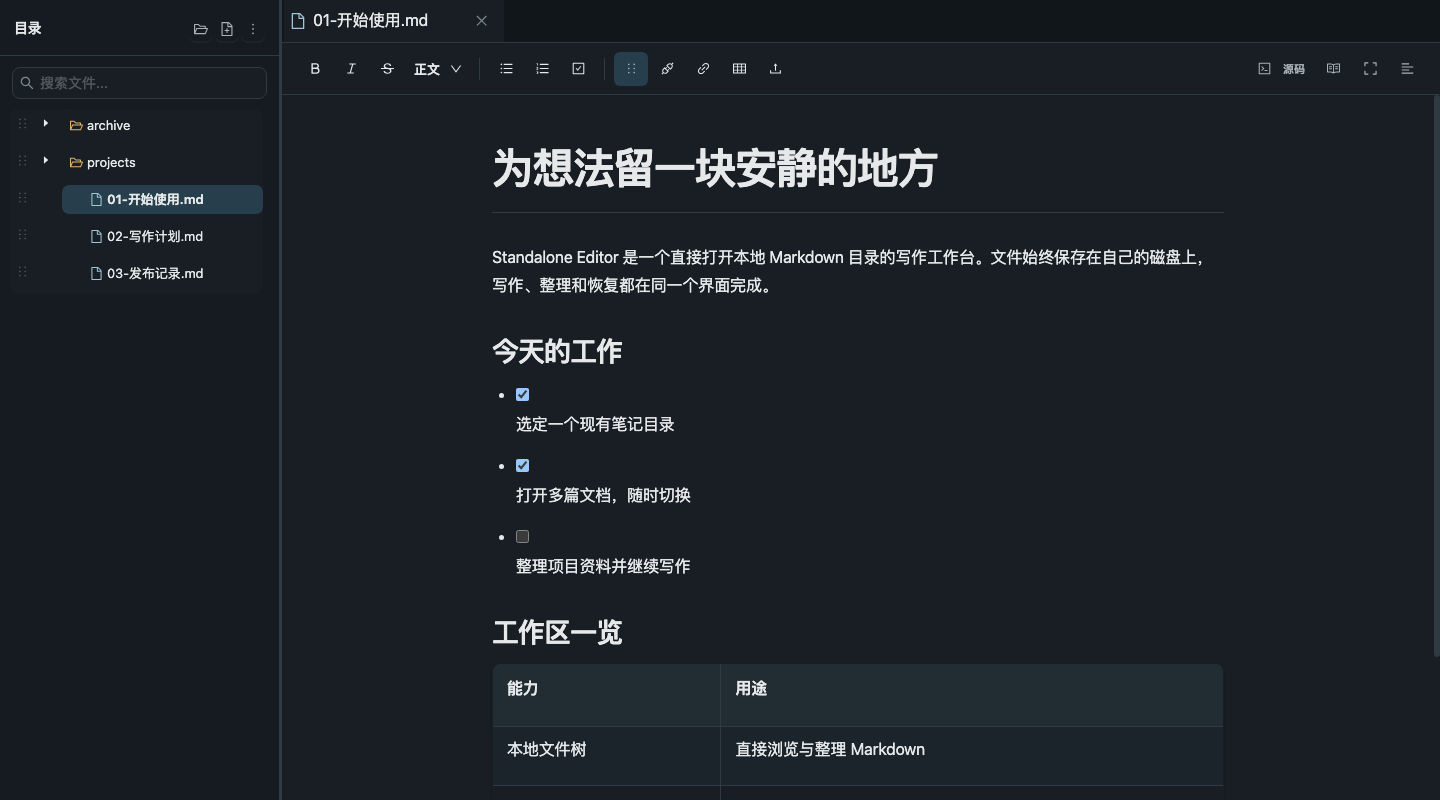
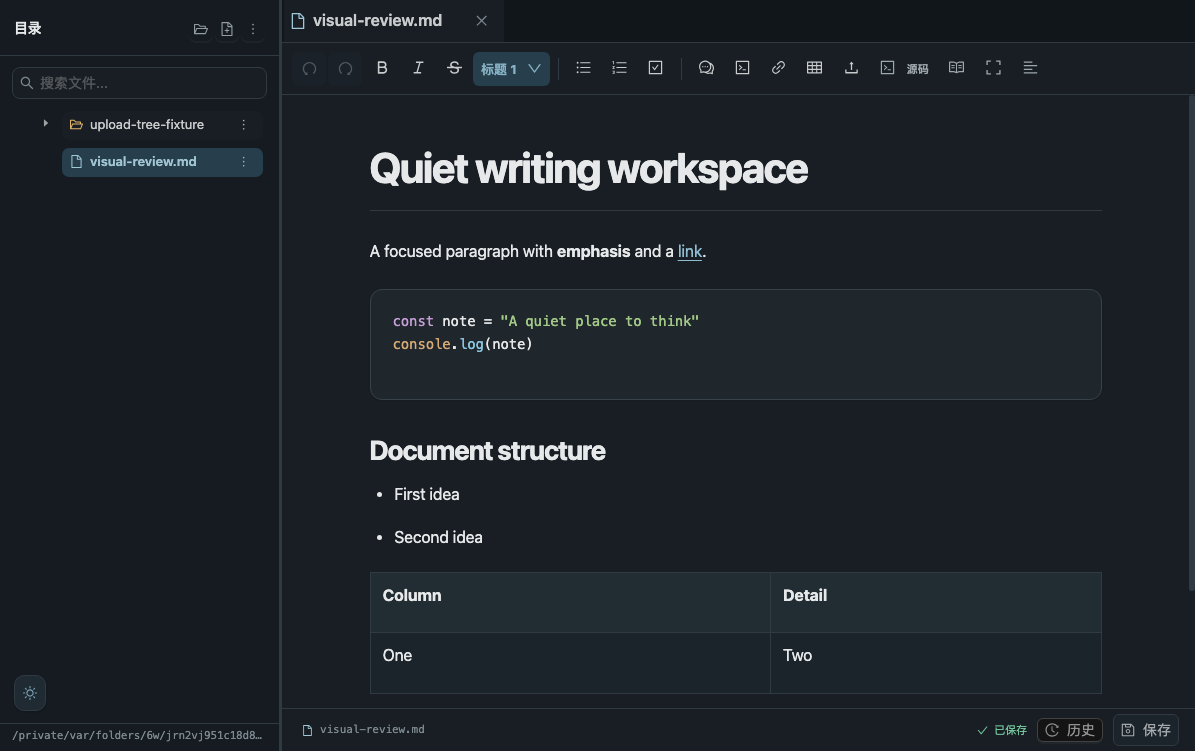
docs: present product workflows and production setup
Rewrite README with a professional overview, current screenshots, verified platform commands, editing workflows, recovery rules, and deployment boundaries. Synchronize recovery maintenance API and CI documentation.

diff --git a/README.md b/README.md
@@ -1,140 +1,196 @@
 # Standalone Editor
 
-**打开一个本地目录，安静地写 Markdown。**
+**以普通 Markdown 文件为基础的本地文档工作台。**
 
-Standalone Editor 是一款在浏览器中运行的本地文档工作台。它直接读写你选择的文件夹：左边整理文件，中间专注写作，保存状态和恢复入口始终可见。文档仍是普通的 `.md` 文件，不需要导入专有格式。
+Standalone Editor 提供浏览器中的 Markdown 编辑、目录管理与内容恢复能力，直接读写指定工作目录。它面向个人笔记、项目文档和本地知识库，支持富文本与源码编辑，保留文件目录结构和相对图片路径，无需将文档迁入专有格式或数据库。
 
 [![CI](https://github.com/nerkeler/standalone-editor/actions/workflows/ci.yml/badge.svg)](https://github.com/nerkeler/standalone-editor/actions/workflows/ci.yml)
 
-![Standalone Editor 浅色工作台：左侧文件树、中间 Markdown 文档与顶部编辑工具栏](docs/images/workbench-light.png)
+[安装运行](#安装运行) · [使用说明](#使用说明) · [部署与数据边界](#部署与数据边界) · [技术文档](#技术文档) · [开发与验证](#开发与验证)
 
-*真实界面截图，内容来自隔离的演示工作区。* [查看深色主题截图](docs/images/workbench-dark.png)
+![Standalone Editor 浅色工作台：文件目录、Markdown 正文与编辑工具栏](docs/images/workbench-light.png)
 
-## 一眼了解
+*当前界面的真实截图，使用隔离的演示工作区。*
 
-| 写作 | 整理 | 找回 |
-| --- | --- | --- |
-| 富文本与源码两种模式、撤销与重做、多标签、任务列表、基础表格 | 本地文件树、搜索、新建、重命名、移动、ZIP 导入 | 三秒自动保存、保存冲突提示、版本历史、回收站与浏览器草稿 |
+## 核心能力
 
-项目面向**个人、本机、已有 Markdown 目录**的使用场景。图片可以使用相对于文档的路径；编辑器只在显示时把它映射为本地媒体地址，磁盘上的 Markdown 不依赖应用的 API URL。
-
-## 快速开始
-
-建议使用 Node.js 22.x 的 22.17.0 或更新版本和 npm。Windows 文件身份检查需要 Node.js 22.17.0 所带的 libuv 修复；启动脚本和后端入口会拒绝较旧版本及其他主版本。macOS / Linux 可在终端运行：
-
-~~~bash
-git clone https://github.com/nerkeler/standalone-editor.git
-cd standalone-editor
-(cd backend && npm ci)
-(cd frontend && npm ci)
-bash start.sh "$HOME/Documents/notes"
-~~~
-
-打开 **http://127.0.0.1:5558/**。`start.sh` 会启动前后端，并在退出时停止它们。也可以省略最后的目录参数，使用之前保存的工作区；首次运行会创建默认目录。
-
-Windows 可在两个 PowerShell 窗口分别启动：
-
-~~~powershell
-# 窗口一：进入仓库后
-cd backend
-npm ci
-node src/index.js --workspace "C:\Users\you\Documents\notes"
-
-# 窗口二：从仓库根目录进入
-cd frontend
-npm ci
-npm run dev
-~~~
-
-目录选择器会使用**运行后端的系统**的真实路径规则，支持 macOS、Linux 和 Windows 的盘符与 UNC 路径。界面记住已选择的目录；上次使用的磁盘暂时不可用时，会明确提示，不会悄悄切换到另一个目录。
-
-### 选择或更改工作目录
-
-欢迎页的“选择工作目录”和工作台的“更改目录”使用同一个弹窗。顶部输入框显示完整目录路径，可以直接粘贴路径后按 Enter 或点击“打开路径”，也可以单击文件夹逐层进入，用“上一级”返回。
-
-- **路径属于后端机器。** 本机运行时是本机目录；部署在 Linux 主机上时，显示的是该主机的目录，而不是浏览器所在电脑的目录。能否读取或写入由运行后端的系统账号权限决定。
-- **输入框下方的路径是快捷位置。** 根目录、账号主目录等由后端提供；点击只浏览那个位置，不会立即更改工作区。顶部输入框显示当前浏览的位置。
-- **“使用此目录”才完成选择。** 目录读取成功后才能确认。切换前会先保存草稿并核对新工作区；保存失败或发生冲突时会保留原文档。
-- **取消后继续原来的工作。** 更改目录时，原文档、标签和草稿保留在弹窗后方。取消不强制保存，原有三秒自动保存继续运行。
-
-读取慢目录时保留上次成功的列表，并标明列表仍属于原目录；确认按钮等待新目录验证完成。列表独立滚动，弹窗与底部操作保持位置。权限不足、路径不存在或连接失败时，会显示原因和重试入口。
-
-## 从打开文件到安全保存
-
-1. **选择目录。** 使用界面中的目录按钮打开已有笔记文件夹；左侧文件树可以搜索、展开和整理文件。
-2. **开始写作。** 点击 `.md` 或 `.markdown` 文件，在标签页间切换。常见标题、列表、任务、链接、引用、代码块和基础表格可在富文本模式编辑。
-3. **看保存状态。** 停止编辑约三秒后自动保存；底部显示待保存、保存中、已保存或失败。也可以手动保存。
-4. **需要时找回。** 文件内容发生外部修改时，编辑器会阻止旧版本直接覆盖新版本，并展示冲突处理；版本历史、回收站和本地草稿分别提供恢复途径。
-
-### 撤销与重做
-
-富文本和源码模式都支持以下快捷键，也可以点击工具栏中的撤销、重做按钮。没有可用记录时，按钮会禁用。
-
-| 操作 | macOS | Windows / Linux |
-| --- | --- | --- |
-| 撤销 | `⌘+Z` | `Ctrl+Z` |
-| 重做 | `⌘+Shift+Z`，也支持 `Ctrl+Y` | `Ctrl+Shift+Z` 或 `Ctrl+Y` |
-
-撤销或重做后仍按三秒自动保存，保存成功不会清空当前编辑记录。切换文件或编辑模式、重新加载文件、恢复历史版本时，会开始新的撤销记录；需要找回之前保存的内容，可使用版本历史。搜索框和弹窗输入框使用自己的撤销记录。
-
-### 复杂 Markdown 原样保留
-
-YAML front matter、WikiLinks、脚注、引用式链接、带标题的链接、带对齐的表格等可能无法无损往返的语法会默认进入**源码模式**。受保护的具体片段会显示波浪下划线；悬停可查看原因，F8 或“下一个位置”可以逐项跳转。打开文件时，编辑器会分析简单引用式链接、自动链接等可安全转换的写法，并显示修复内容与前后预览；**只有点击“确认修复并保存”后才会写盘**，保存时仍检查文件 revision。暂不修复、仅打开文件或取消建议都不会改动原文；不支持安全转换的片段继续留在源码模式。
-
-只有有效 UTF-8 的普通 `.md` / `.markdown` 文件可以进入编辑器。图片进入预览器；其他普通附件保留在文件树，可下载原始字节，不会被误当作 Markdown 保存。
-
-## 目录仍然属于你
-
-~~~text
-my-notes/
-├── 开始使用.md
-├── projects/
-│   ├── 网站改版.md
-│   └── assets/
-│       └── workflow.svg
-└── archive/
-    └── 2026-09.md
-~~~
-
-Markdown 中的 `![工作流程](assets/workflow.svg)` 相对于所在文档解析。工作区本身无需数据库才能阅读。版本历史与回收站默认放在工作区外的 `~/.standalone-editor/recovery`，防止恢复数据混入笔记目录；删除项目会先进入回收站。
-
-~~~mermaid
-flowchart LR
-  B["浏览器工作台<br/>React · TipTap"] -->|"本机 HTTP"| S["本地服务<br/>Node.js · Express"]
-  S --> W["你选择的 Markdown 目录"]
-  S --> R["工作区外的历史与回收站"]
-~~~
+| 能力 | 说明 |
+| --- | --- |
+| 双模式编辑 | 富文本用于常见 Markdown 结构；CodeMirror 源码模式保留复杂语法，并对无法无损转换的片段提供定位与解释。 |
+| 写作工作台 | 多文档标签、标题大纲、全文搜索、浅色与深色主题、专注模式，以及支持快捷键的原生撤销与重做。 |
+| 本地目录管理 | 浏览或直接输入工作目录；新建、重命名、移动、删除文件及目录，导入 ZIP，下载文档与附件。 |
+| 表格与图片 | 插表时选择行列；通过对象菜单增删行列、删除整表，或调整图片宽度与左/中对齐。图片上传到文档同级 `assets/`。 |
+| 保存与冲突处理 | 三秒防抖自动保存、手动保存、明确的保存状态，以及基于文件内容 revision 的版本冲突检测与比较流程。 |
+| 内容恢复 | 文件历史、回收站、已删除文件的历史管理、浏览器草稿恢复，以及恢复数据统计和中断操作检查。 |
+| 独立运行 | 正式构建由一个 Node.js 进程提供页面与 API；运行时不依赖外部字体或 CDN，可用于离线写作。 |
 
 <details>
-<summary><strong>查看深色主题</strong></summary>
+<summary>查看深色主题</summary>
 
 ![Standalone Editor 深色工作台](docs/images/workbench-dark.png)
 
 </details>
 
-## 运行边界
+## 安装运行
 
-- 后端默认只监听 `127.0.0.1`。应用没有账号认证，也不提供云端同步；当前定位是单机使用。
-- 工作区文件操作会检查路径边界和文件类型。保存使用文件 revision 检测冲突，并保留可恢复的历史版本。
-- 表格插入可通过网格或数字输入选择行列（最多 20 行、12 列）。右键点击表格单元格可增删行列或删除整表；移动端选中表格后点角落的“更多”入口。需要源码保护的表格可继续在源码模式编辑；暂不支持富文本合并单元格。
-- 桌面、移动端及粘贴图片共用上传流程。`docs/note.md` 的图片进入 `docs/assets/`；Markdown 仍保存 `assets/photo.png` 这样的相对路径。右键图片可设置宽度、左对齐或居中，也可删除图片；移动端选中图片后点“更多”入口。图片角柄仍可直接拖动缩放。选中表格或图片时，Shift+F10 可打开操作菜单，Esc 返回编辑。显示属性以紧邻图片的 `<!-- se-image:width=75;align=center -->` 注释保存；普通 Markdown 阅读器仍能显示图片。旧 `<!-- zoom:N -->` 标记继续可读。
+运行环境为 **Node.js `>=22.17.0 <23.0.0` 与 npm**。项目在 macOS、Linux 和 Windows 上运行；`start.sh` 启动器适用于 macOS / Linux，Windows 使用 Node.js 直接启动后端。
 
-## 开发与参考
+### 正式运行（推荐）
 
-| 位置 | 内容 |
+在 macOS / Linux 上克隆仓库、安装依赖并构建前端：
+
+```bash
+git clone https://github.com/nerkeler/standalone-editor.git
+cd standalone-editor
+(cd frontend && npm ci && npm run build)
+(cd backend && npm ci --omit=dev)
+EDITOR_MODE=production bash start.sh "$HOME/Documents/notes"
+```
+
+打开 **[http://127.0.0.1:5557/](http://127.0.0.1:5557/)**。正式模式由后端直接提供 `frontend/dist`，无需单独运行 Vite。
+
+目录参数用于指定工作区，不存在时会创建。省略参数则使用已保存的工作区，首次运行创建默认笔记目录。已保存的目录不可访问时，界面会显示原因并提供重新选择入口。
+
+<details>
+<summary>Windows / PowerShell</summary>
+
+从仓库根目录执行：
+
+```powershell
+cd frontend
+npm ci
+npm run build
+cd ..\backend
+npm ci --omit=dev
+node src\index.js --workspace "C:\Users\you\Documents\notes"
+```
+
+将示例路径替换为实际存在的笔记目录。打开 `http://127.0.0.1:5557/`，使用 `Ctrl+C` 停止服务。
+
+</details>
+
+### 开发模式
+
+开发模式分别运行 Vite 和后端，默认页面地址为 **[http://127.0.0.1:5558/](http://127.0.0.1:5558/)**：
+
+```bash
+(cd backend && npm ci)
+(cd frontend && npm ci)
+bash start.sh "$HOME/Documents/notes"
+```
+
+Windows 开发环境可在两个终端分别运行 `backend` 中的 `npm run dev` 和 `frontend` 中的 `npm run dev`。
+
+长期运行、服务监督、更新与回退说明见 [运行指南](docs/release-runtime.md)。
+
+## 使用说明
+
+### 选择工作目录
+
+欢迎页和工作台共用目录选择器。顶部地址栏显示当前浏览的完整路径：可粘贴路径后按 Enter，也可点击文件夹逐层进入，使用“上一级”返回。快捷位置仅用于浏览；点击 **“使用此目录”** 才确认工作区。
+
+路径属于**运行后端的机器**。本机启动时是本机目录；在其他主机部署时，是该主机的目录。目录访问和文件写入遵循后端系统账号权限，也可配置允许访问的目录范围。
+
+目录验证期间不能确认选择。慢请求保留上次成功的列表并标明所属路径；失败时提供错误说明与重试。切换工作区前会保存当前草稿，保存失败或发生冲突时保留原工作区。取消选择返回原文档。
+
+### 编辑与 Markdown 保真
+
+有效 UTF-8、大小不超过 5 MiB 的普通 `.md` / `.markdown` 文件可编辑。图片使用预览器，其他普通附件保留在目录中并可下载原始字节；超出编辑大小限制的文档使用只读或下载方式访问。
+
+富文本支持常见标题、段落、列表、纯无序任务列表、链接、引用、代码块和基础表格。YAML 元数据、WikiLinks、脚注及其他超出保真范围的结构使用源码模式；混合普通项与任务项的列表、有序任务列表也会受到保护。
+
+源码模式以波浪下划线标出具体片段，悬停显示原因，`F8` 跳转到下一处。经验证可保留的普通转义在编辑器内部处理，无需用户反复确认。对于需要改写源码的安全转换，打开时提供变更预览，点击 **“确认修复并保存”** 后才写入文件，仍执行 revision 校验。仅打开文件或取消建议不会修改磁盘内容。
+
+### 表格与图片操作
+
+- **表格：** 插入时通过网格或数字输入选择行列，最多 20 行、12 列；右键单元格可增删行列或删除整表。暂不支持富文本合并单元格。
+- **图片：** 上传或粘贴后保存到当前文档同级 `assets/`，文件树自动刷新并展开该目录。右键图片可调整宽度、左对齐或居中，也可删除文档中的图片引用；删除引用不删除 `assets/` 中的文件。角柄支持拖动缩放。
+- **菜单入口：** 桌面使用右键，选中对象后也可按 `Shift+F10`；移动端使用对象旁的“更多”按钮。`Esc` 关闭菜单并返回编辑。
+
+图片路径保留为标准 Markdown 相对引用。显示属性使用紧邻图片的元数据注释保存；其他 Markdown 工具仍可读取图片引用，是否应用这些显示属性取决于其支持能力。
+
+```text
+notes/
+└── projects/
+    ├── plan.md
+    └── assets/
+        └── diagram.png
+```
+
+```markdown
+![流程图](assets/diagram.png)<!-- se-image:width=75;align=center -->
+```
+
+### 撤销、重做与保存
+
+| 操作 | macOS | Windows / Linux |
+| --- | --- | --- |
+| 撤销 | `⌘+Z` | `Ctrl+Z` |
+| 重做 | `⌘+Shift+Z` 或 `Ctrl+Y` | `Ctrl+Shift+Z` 或 `Ctrl+Y` |
+
+工具栏同时提供撤销与重做。富文本使用 TipTap / ProseMirror 原生历史，源码使用 CodeMirror 原生历史。普通保存、自动保存及确认冲突后保存本地草稿会保留当前编辑记录；切换文件或编辑模式、重新加载磁盘内容、恢复历史版本时开启新会话。
+
+停止编辑约三秒后自动保存，也可使用底部保存按钮。保存状态区分待保存、保存中、成功、失败和冲突。磁盘内容与读取版本不一致时，编辑器阻止直接保存，提供磁盘版本与本地草稿的比较和选择。
+
+### 恢复与存储管理
+
+版本历史与回收站默认存放在工作区外的 `~/.standalone-editor/recovery`。成功替换文档后，历史保留策略以最近 50 个被替换版本为目标；清理失败时保留额外记录，文档仍显示已保存，服务日志和恢复检查结果报告清理问题。
+
+删除操作先移入回收站。回收站项目记录 30 天到期时间，**不会自动永久删除**；清理过期项目需要用户确认。已删除文件的历史单独保留，永久删除回收站副本不会连带删除这些历史。
+
+跨卷移入回收站会记录中断状态。启动、重新选择工作区或手动检查时，原位置空闲且身份与内容核验一致的项目会恢复到原路径，完整回收站副本继续保留。路径占用、内容变化或无法核验时保留数据并说明原因。
+
+浏览器草稿提供异常退出后的恢复入口，依赖当前浏览器的站点存储。恢复机制不能替代独立备份；详细规则见 [技术参考](docs/reference.md)。
+
+## 部署与数据边界
+
+默认监听 `127.0.0.1`，适用于个人本机或由使用者管理访问边界的可信网络。**当前没有登录认证**，认证方案保留在 [维护 TODO](docs/maintenance-todo.md)；可访问服务的客户端具有应用操作权限。不要将当前版本作为公网或多用户服务部署。
+
+一个后端实例共享一个工作区，浏览器窗口之间不能独立选择不同工作区。工作区标识和文件 revision 用于状态一致性，不是认证凭据。恢复目录必须位于工作区外，路径选择会提前校验此约束。
+
+| 配置 | 用途 |
 | --- | --- |
-| `frontend/` | React、Vite、TipTap 工作台 |
-| `backend/` | Express、工作区校验、文件读写与恢复 |
-| [技术参考](docs/reference.md) | API、ZIP 导入限制、恢复规则、环境变量与跨平台目录选择 |
-| [运行、更新与回退](docs/release-runtime.md) | 构建产物运行、服务监督、更新和回退 |
-| [前端依赖维护](docs/dependency-maintenance.md) | Node.js 最低版本、依赖升级、审计和离线约束 |
-| [产品方向](PRODUCT.md) · [视觉方向](DESIGN.md) | 设计原则与界面约定 |
+| `EDITOR_MODE` | 启动器模式：`production` 或默认的 `development`。 |
+| `EDITOR_HOST` / `EDITOR_PORT` | `start.sh` 的监听地址与后端端口，默认 `127.0.0.1:5557`；直接启动 Node 时使用 `HOST` / `PORT`。 |
+| `EDITOR_RECOVERY_DIR` | 历史版本与回收站的存储位置。 |
+| `EDITOR_DIRECTORY_ROOTS` | 可选目录范围限制；POSIX 用 `:` 分隔，Windows 用 `;` 分隔。 |
 
-运行现有检查：
+文件操作包含路径、文件类型和符号链接检查，文档保存采用临时文件替换并检查 revision。对任意外部程序的并发写入、真实存储设备故障和突然断电，不提供绝对原子或无损保证。部署配置、更新备份与已接受边界见 [运行指南](docs/release-runtime.md) 和 [技术参考](docs/reference.md)。
 
-~~~bash
+## 技术文档
+
+前端采用 React、TipTap / ProseMirror、CodeMirror 和 Vite；后端采用 Node.js 与 Express。工作区保持普通文件目录，恢复数据独立存储。
+
+```mermaid
+flowchart LR
+  UI["浏览器工作台<br/>React · TipTap · CodeMirror"] -->|"HTTP / API"| Server["Node.js · Express"]
+  Server --> Notes["Markdown 工作目录"]
+  Server --> Recovery["独立的历史与回收站"]
+```
+
+| 文档 | 内容 |
+| --- | --- |
+| [运行指南](docs/release-runtime.md) | 正式构建、服务监督、更新、回退与数据保全。 |
+| [技术参考](docs/reference.md) | API、目录策略、恢复规则、ZIP 限制与环境变量。 |
+| [编辑历史验收](docs/reviews/2026-10-08-editor-history.md) | 撤销与重做的实现、会话边界和验证记录。 |
+| [依赖维护](docs/dependency-maintenance.md) | 支持的 Node.js 版本、依赖升级、审计和离线约束。 |
+| [维护 TODO](docs/maintenance-todo.md) | 登录认证与后续维护事项。 |
+| [产品方向](PRODUCT.md) · [设计原则](DESIGN.md) | 产品范围、交互与视觉约定。 |
+
+## 开发与验证
+
+安装前后端完整依赖后运行：
+
+```bash
 (cd backend && npm test)
-(cd frontend && npm run test:unit && npm run build && npm run test:browser && npm run test:production-smoke)
-~~~
+(cd frontend && npm run test:unit)
+(cd frontend && npm run build)
+(cd frontend && npm run test:production-smoke)
+(cd frontend && npm run test:browser)
+```
 
-浏览器回归测试需要 Chrome 或 Chromium；本地未能自动找到时，可通过 `CHROME_PATH` 指定浏览器可执行文件。CI 在 Ubuntu、Windows 和 macOS 运行后端测试，在 Ubuntu 运行前端单元测试、构建、生产验收与完整浏览器回归。浏览器截图作为 Actions artifacts 保留 14 天。
+浏览器测试需要 Chrome / Chromium；未自动找到时用 `CHROME_PATH` 指定可执行文件。生产 smoke 验证真实构建产物，浏览器回归使用隔离工作区、恢复目录和浏览器配置。
+
+GitHub Actions 在 Ubuntu、Windows 和 macOS 运行后端测试，在 Ubuntu 运行前端单元测试、构建、生产 smoke 和浏览器回归。截图以 Actions artifacts 保留 14 天。当前工作流与结果可在 [Actions](https://github.com/nerkeler/standalone-editor/actions/workflows/ci.yml) 查看。
+
+提交问题时请附操作系统、Node.js 版本、运行方式、复现步骤和相关日志；涉及文档内容时使用脱敏或合成样本。修改保存、Markdown 转换或恢复逻辑时，应同时验证对应的文件字节、冲突和恢复边界。
